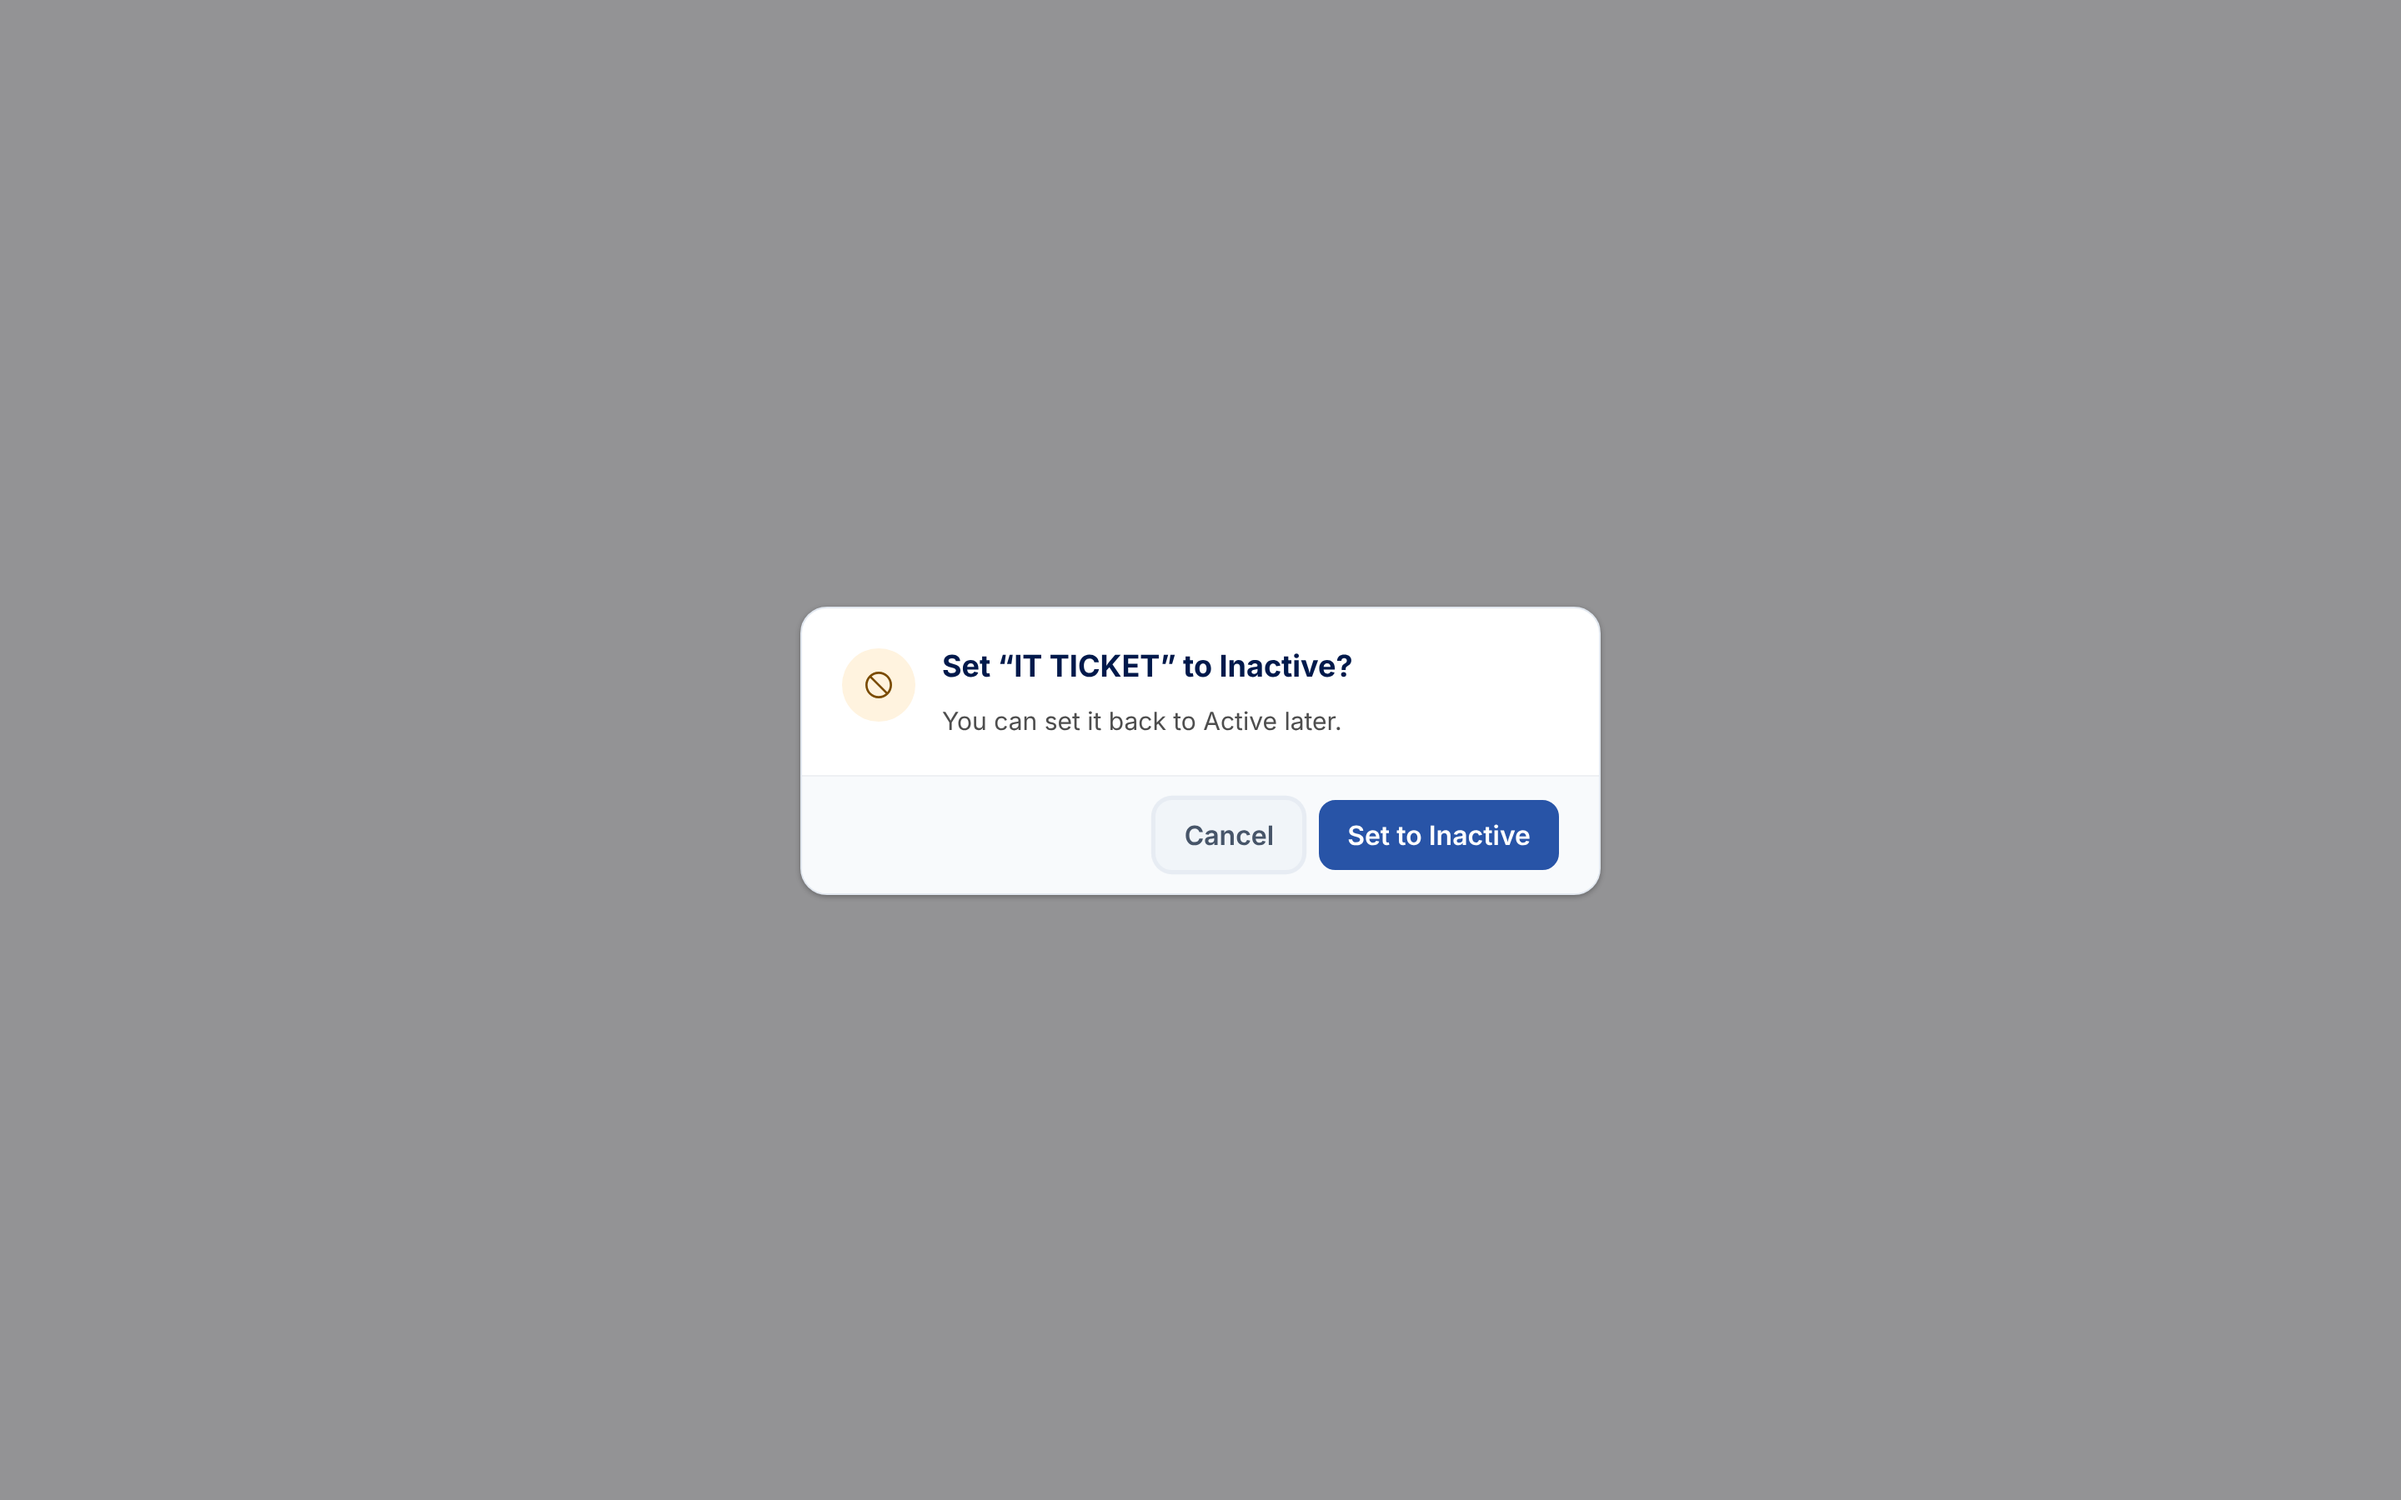
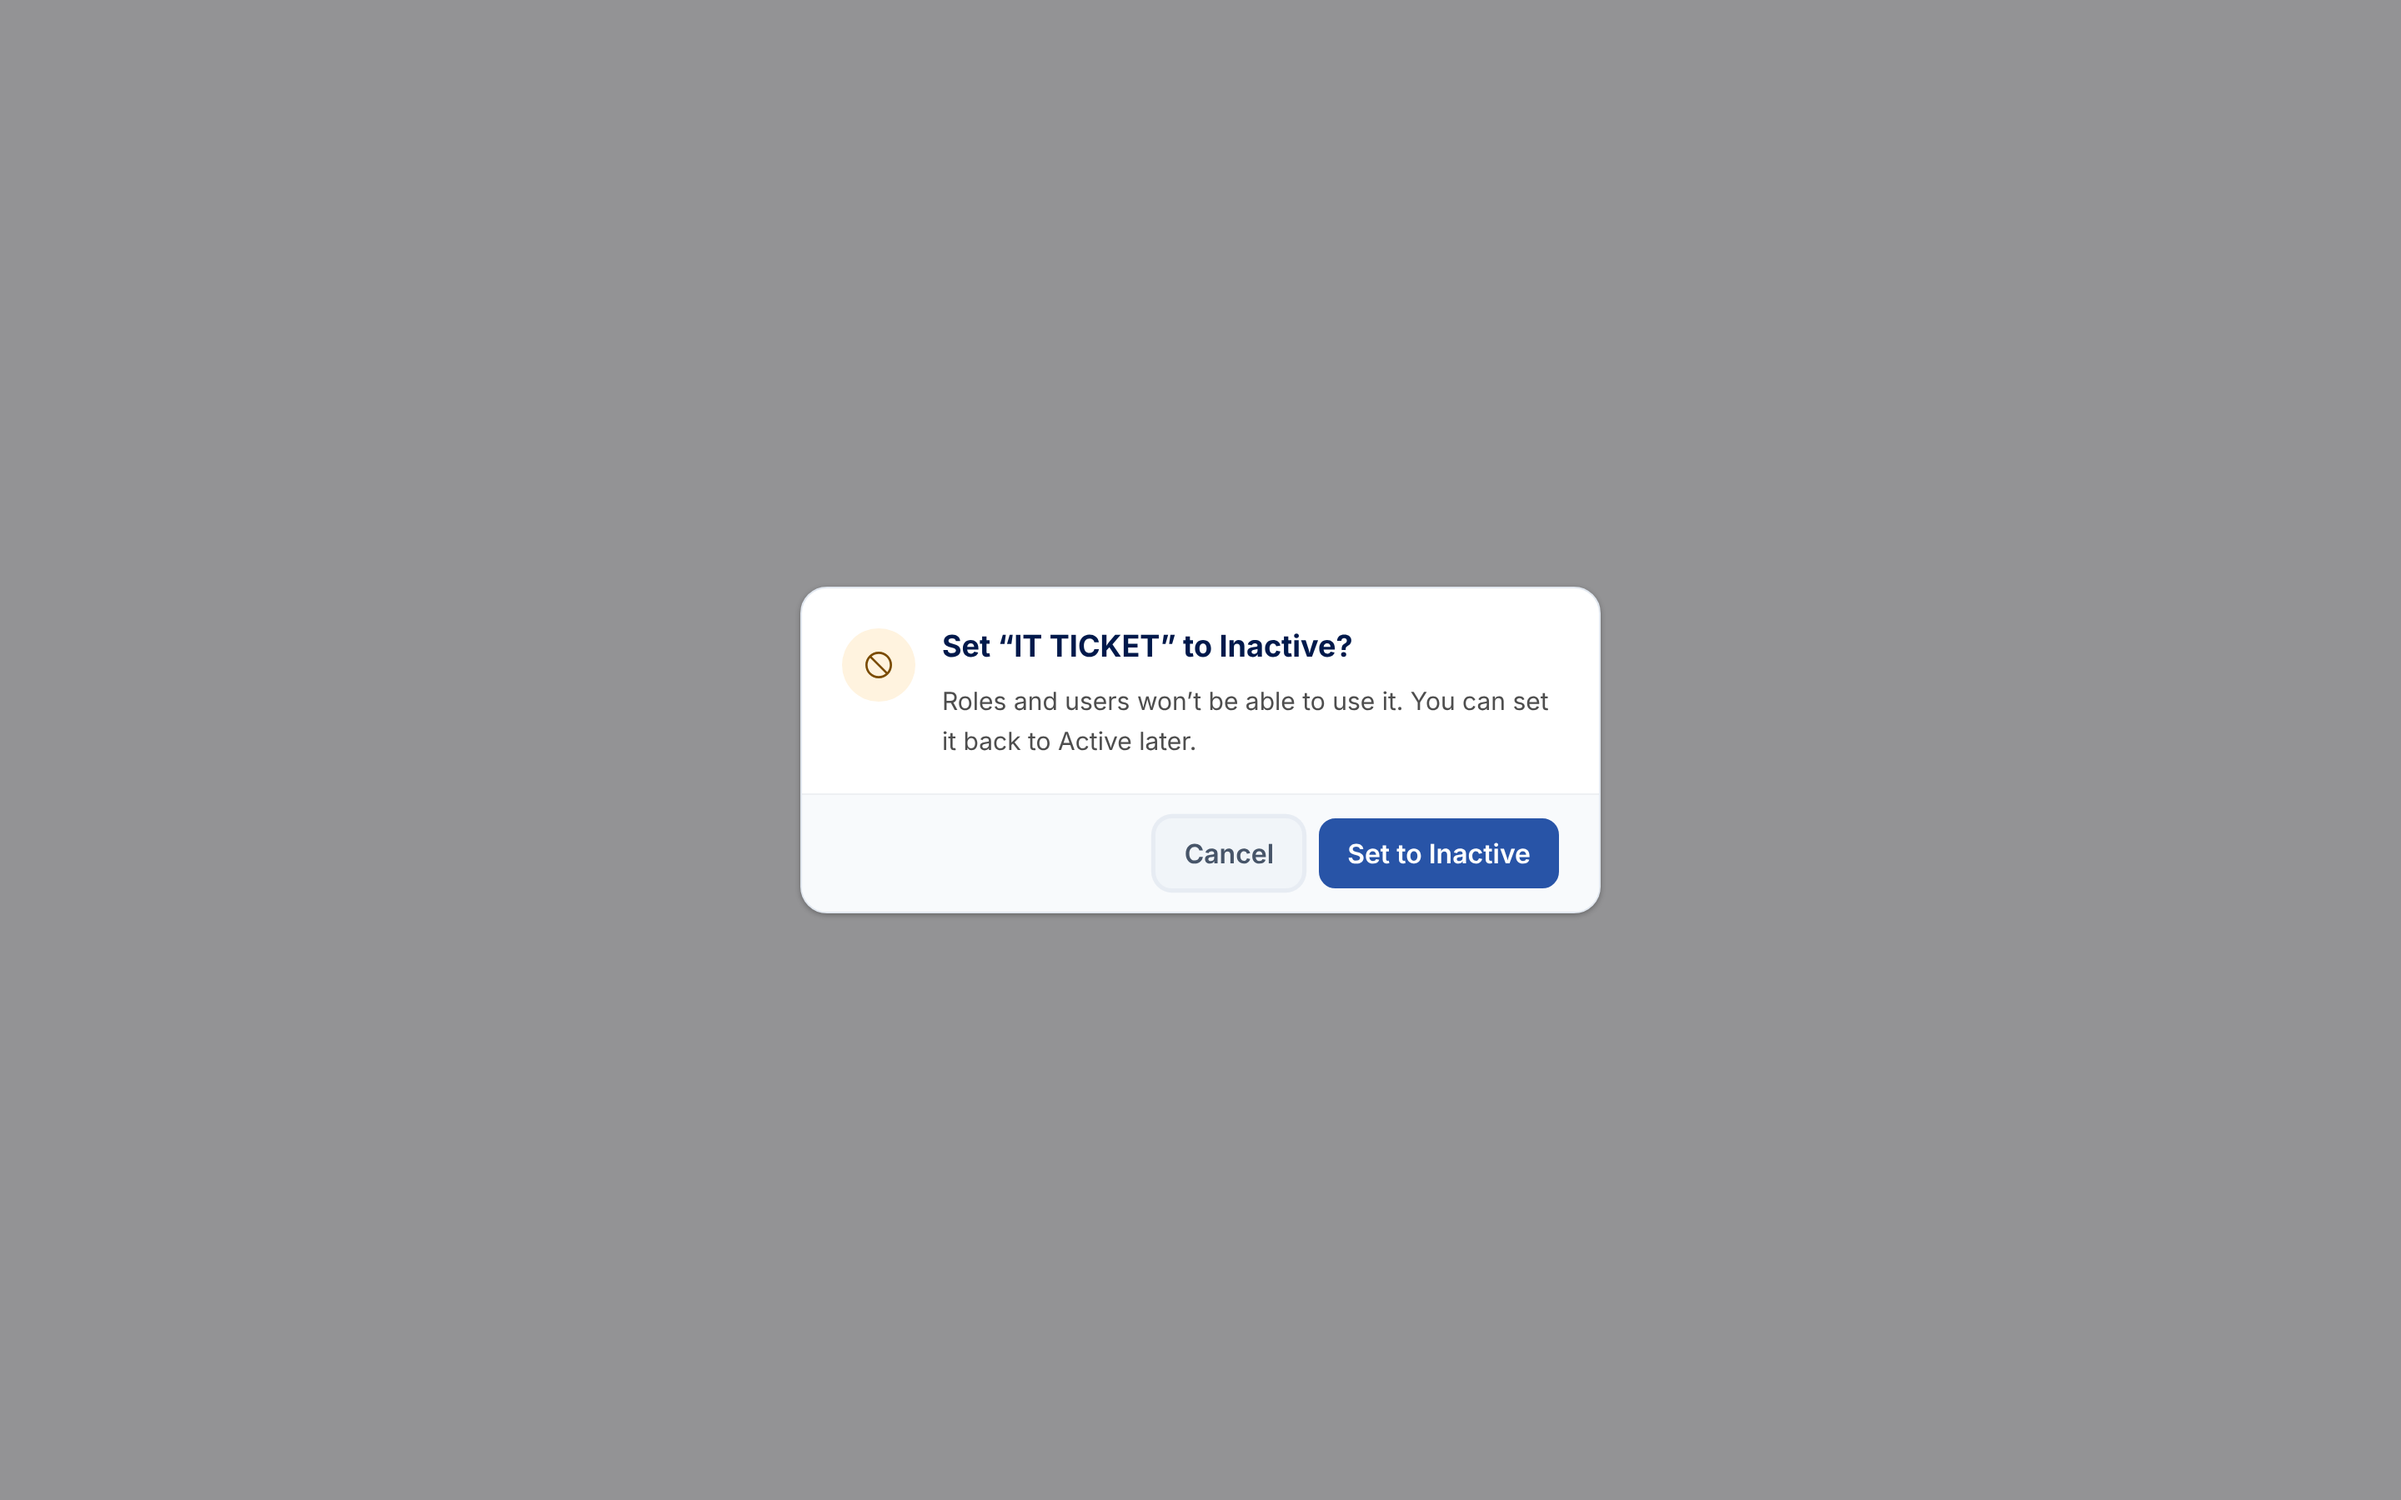
fix(UAM-ERR-04): match DlgSetInactive copy and assert it in spec
Review of PR #101: the default message lacked the artboard's first
sentence. Retake the confirm screenshots.

Claude-Session: https://claude.ai/code/session_01174fMheW8c3GWBBWd8Lh5J

Changed region(s): [[0.3125, 0.3733, 0.6875, 0.4978], [0.3125, 0.5289, 0.6875, 0.6222]]

diff --git a/src/app/shared/ui/status-dialogs.spec.ts b/src/app/shared/ui/status-dialogs.spec.ts
@@ -40,6 +40,9 @@ describe('status dialogs (UAM-ERR-04)', () => {
     host.confirmOpen.set(true);
     await fixture.whenStable();
     expect(q('u-dialog-heading')!.textContent).toContain('Set “IT TICKET” to Inactive?');
+    expect(q('u-dialog-message')!.textContent).toContain(
+      'Roles and users won’t be able to use it. You can set it back to Active later.',
+    );
     expect(q('inactive-cancel')).not.toBeNull();
     expect(q('inactive-confirm')!.textContent).toContain('Set to Inactive');
   });

diff --git a/src/app/shared/ui/status-dialogs.ts b/src/app/shared/ui/status-dialogs.ts
@@ -56,7 +56,7 @@ export class UInactiveConfirm {
   readonly visible = model(false);
   /** Record name for the heading; omit for the generic wording. */
   readonly name = input<string>();
-  readonly message = input('You can set it back to Active later.');
+  readonly message = input('Roles and users won’t be able to use it. You can set it back to Active later.');
   readonly confirmed = output<void>();
 
   protected readonly heading = computed(() => {
